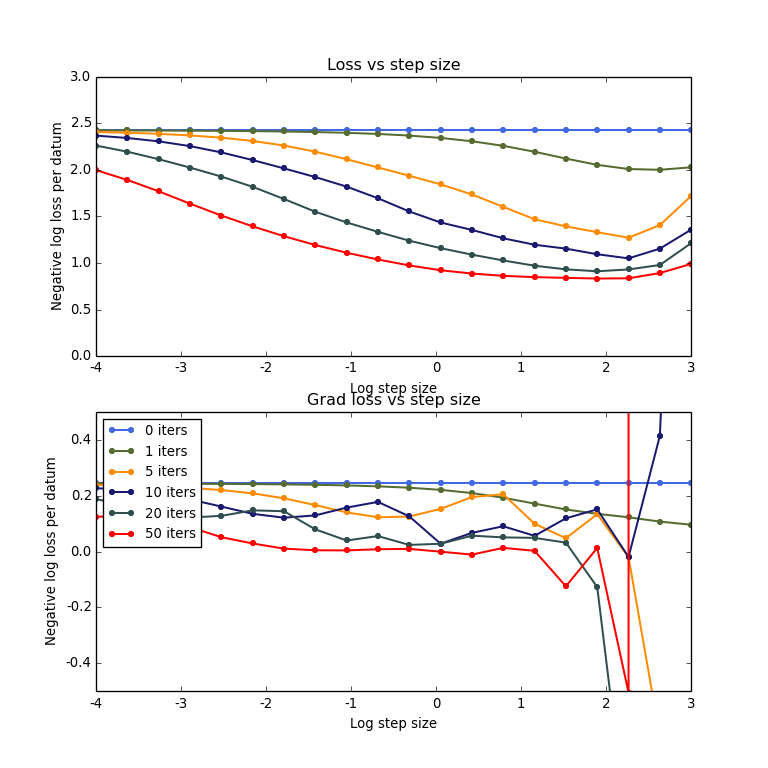
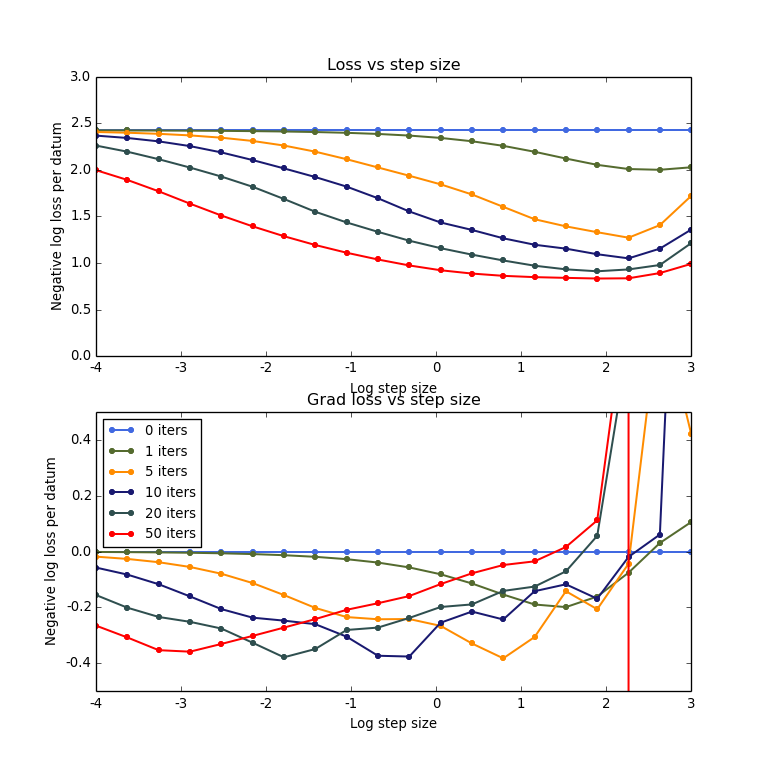
Fixed error in previous experiment

diff --git a/experiments/Jan_14_learning_rate_wiggliness/1/experiment.py b/experiments/Jan_14_learning_rate_wiggliness/1/experiment.py
@@ -47,14 +47,15 @@ def run(oiter):
     V0 = npr.randn(N_weights) * velocity_scale
     losses = []
     d_losses = []
+    alpha_0 = np.exp(log_alpha_0)
     for N_iters in all_N_iters:
-        alphas = np.full(N_iters, np.exp(log_alpha_0))
+        alphas = np.full(N_iters, alpha_0)
         betas = np.full(N_iters, beta_0)
         npr.seed(1)
         W0 = npr.randn(N_weights) * np.exp(log_param_scale)
         results = sgd(indexed_loss_fun, batch_idxs, N_iters, W0, V0, alphas, betas)
         losses.append(results['loss_final'])
-        d_losses.append(d_log_loss(W0, results['d_x']))
+        d_losses.append(d_log_loss(alpha_0, results['d_alphas']))
 
     return losses, d_losses
 
@@ -90,8 +91,8 @@ def plot():
     plt.savefig("fig.png")
 
 if __name__ == '__main__':
-    # results = omap(run, range(N_oiter))
-    # # results = collect_results(225866836343)
-    # with open('results.pkl', 'w') as f:
-    #     pickle.dump(results, f)
+    results = omap(run, range(N_oiter))
+    # results = collect_results(225866836343)
+    with open('results.pkl', 'w') as f:
+        pickle.dump(results, f)
     plot()

diff --git a/README.md b/README.md
@@ -5,7 +5,8 @@ Let's now look at the learning rate. As before...
 ![](experiments/Jan_14_learning_rate_wiggliness/1/fig.png)
 
 Ok, similar story as with the parameter scale. There's an "edge of chaos" to the
-right but before then the gradients look pretty sensible.
+right but before then the gradients look pretty
+sensible. [EDIT: Fixed image. The original showed the gradient wrt parameter scale.]
 
 # Jan 11 planning
 
